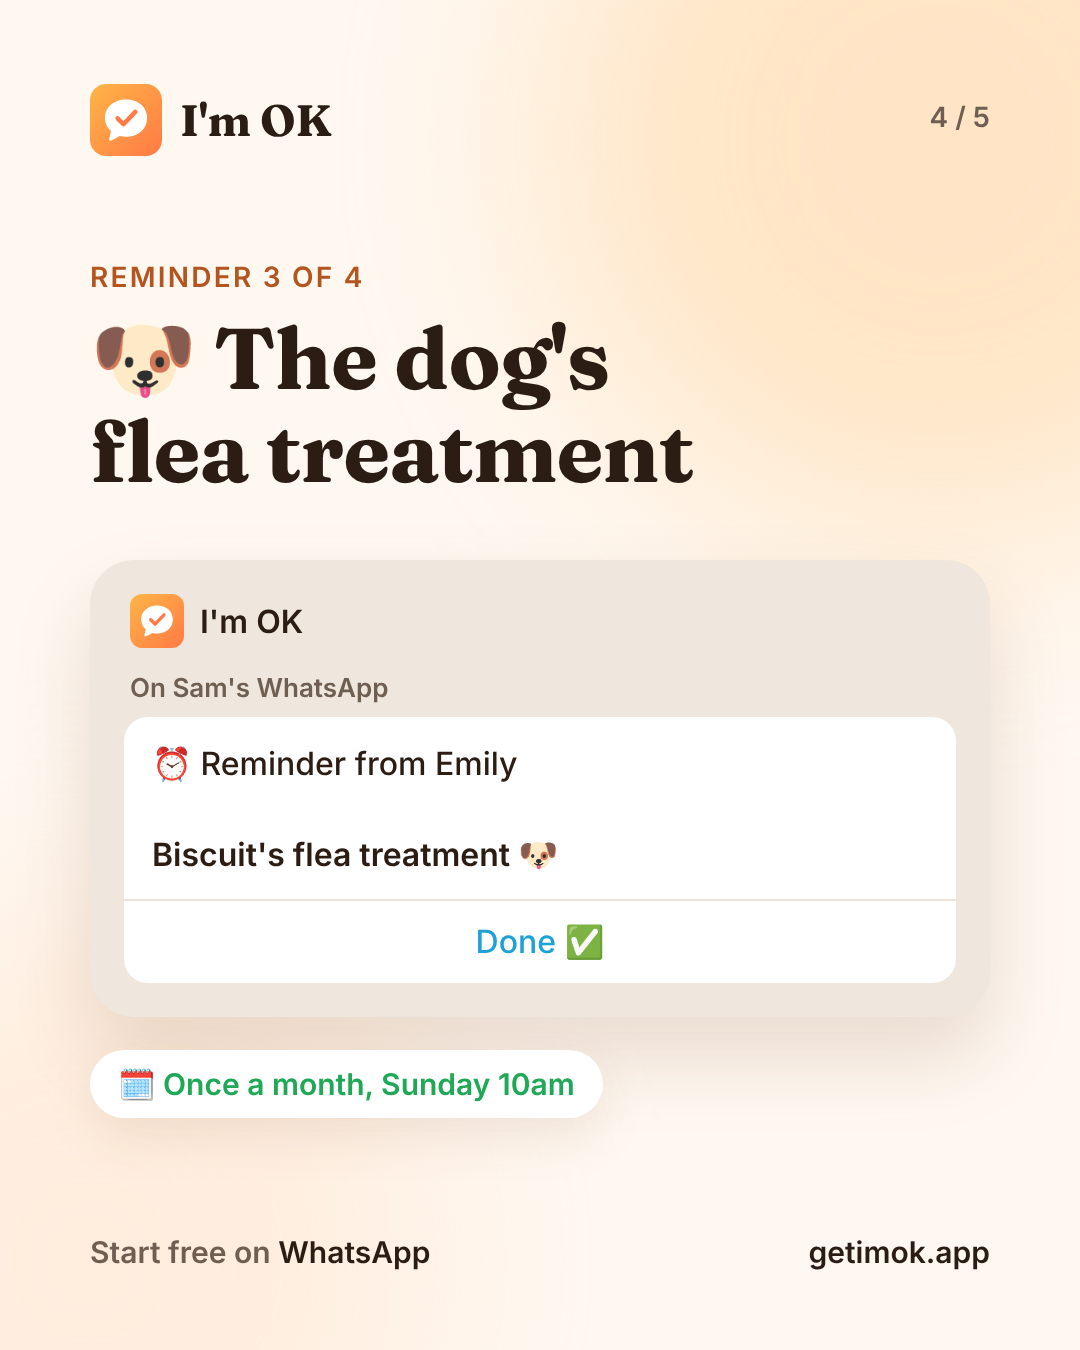
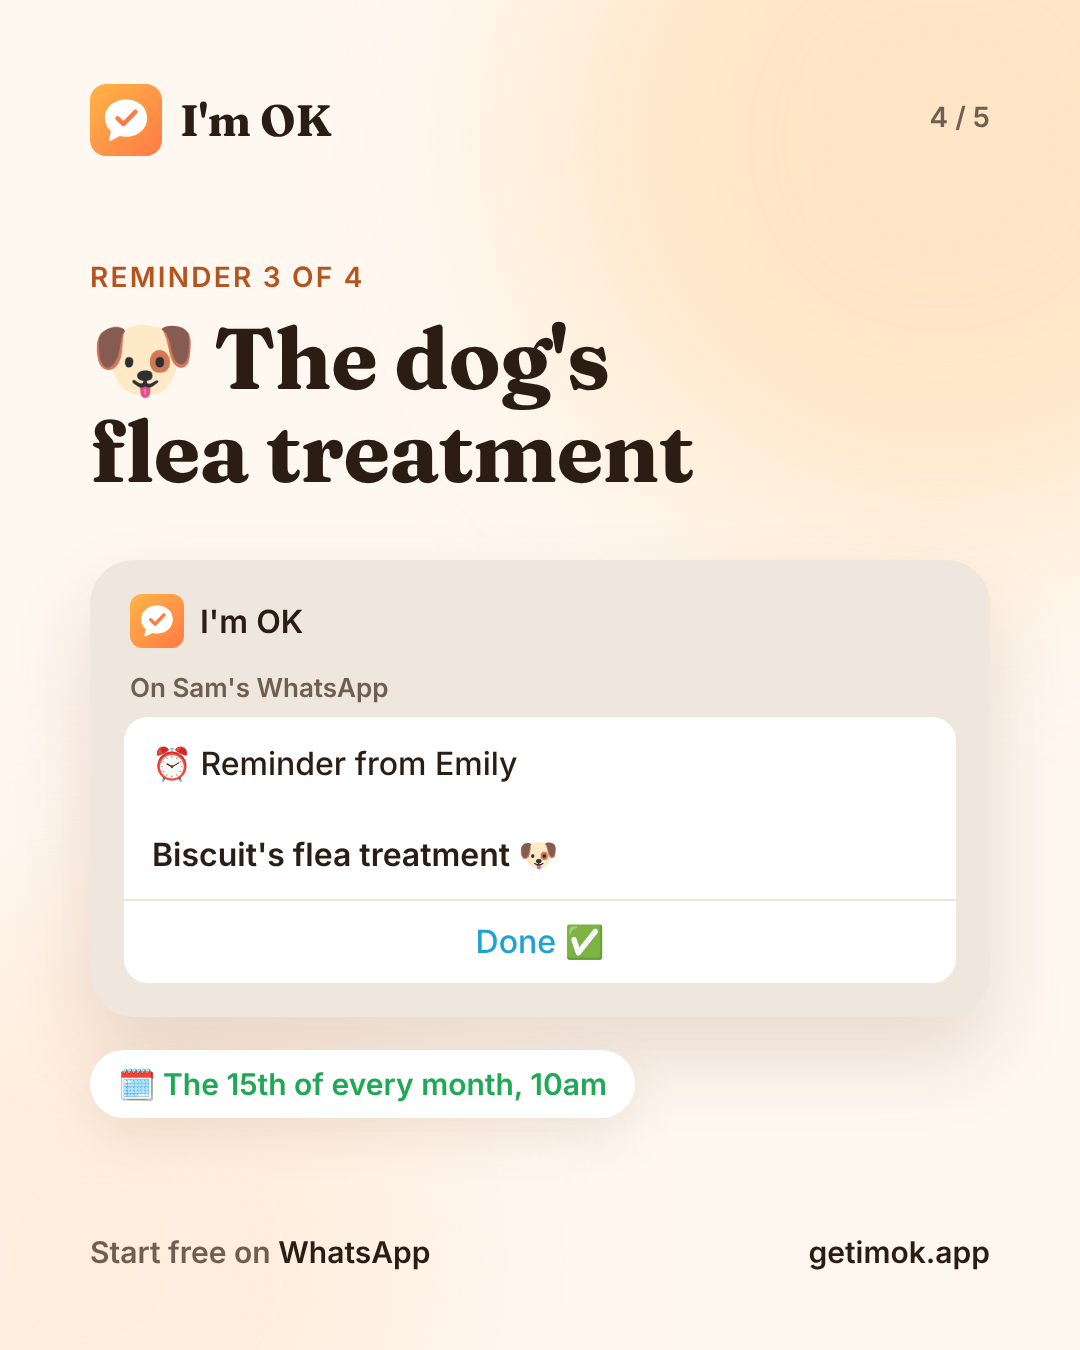
Posts 19 Oct to 1 Nov: fix repeat wording and safety word reply; add 22, 28, 29 and 31 Oct
Claude-Session: https://claude.ai/code/session_019ztv4DbB6iZxgJYrBK5yr6

Changed region(s): [[0.1528, 0.7778, 0.5806, 0.84]]

diff --git a/posts/2026-10-22/spec.js b/posts/2026-10-22/spec.js
@@ -1,0 +1,53 @@
+module.exports = ({ LOGO, foot }) => {
+  // 22, 28, 29 and 31 Oct: chat-screenshot versions of the comic and Halloween slots
+  const css = `<style>
+    h1,.it,.sub,.b,.card,.pill,.lbl{text-wrap:balance}
+    .done{display:inline-flex;align-items:center;gap:12px;font:600 30px I;color:#1FA855;background:#fff;border-radius:999px;padding:16px 28px;box-shadow:0 20px 50px rgba(120,70,30,.10)}
+    .card{background:#fff;border-radius:32px;padding:32px 38px;display:flex;gap:28px;align-items:center;box-shadow:0 20px 50px rgba(120,70,30,.08)}
+    .card .t{font:600 40px I}.card .d{font:500 31px/1.4 I;color:#6F5E52;margin-top:6px}
+    .lbl{font:600 28px I;letter-spacing:.08em;text-transform:uppercase;color:#B4541F;margin-bottom:18px}
+    .num{flex:none;width:76px;height:76px;border-radius:50%;background:linear-gradient(135deg,#FFB547,#FF7A45);color:#fff;display:grid;place-items:center;font:700 38px Fraunces,serif}
+    .pg{position:absolute;right:90px;top:100px;font:600 28px I;color:#6F5E52}
+    .small{font:500 26px I;color:#6F5E52;margin-top:10px}
+    .cap{font:600 26px I;color:#6F5E52;margin:0 0 14px 6px}
+    .pagec{background:#fff;border-radius:36px;padding:30px 34px;box-shadow:0 30px 70px rgba(120,70,30,.14)}
+    .pagec .hd{font:600 26px I;color:#6F5E52;margin-bottom:16px}
+    .row{display:flex;align-items:center;gap:22px;padding:18px 0}.row+.row{border-top:2px solid #F1E3D6}
+    .ok{flex:none;width:58px;height:58px;border-radius:50%;background:#E5F6EC;color:#1FA855;display:grid;place-items:center;font:700 32px I}
+    .row .t{font:600 32px I}.row .d{font:500 26px I;color:#6F5E52;margin-top:4px}
+  </style>`;
+  const page = (h) => css + h + foot;
+  const chat = (top, inner, extra = '') => `<div class="chat" style="position:absolute;left:90px;right:90px;top:${top}px;${extra}"><div class="top">${LOGO} I'm OK</div>${inner}</div>`;
+  const remind = (text, from, btns = ['Done ✅']) => `<div class="b">${from ? `⏰ Reminder from ${from}<br><br>` : ''}<b>${text}</b><div class="acts">${btns.map((b) => `<div>${b}</div>`).join('')}</div></div>`;
+  const heading = (top, html, sub = '') => `<div style="position:absolute;left:90px;right:90px;top:${top}px"><h1>${html}</h1>${sub ? `<p class="sub" style="margin-top:26px">${sub}</p>` : ''}</div>`;
+  const myPage = (top, rows, title = "Emily's page · Today") => `<div class="pagec" style="position:absolute;left:90px;right:90px;top:${top}px"><div class="hd">${title}</div>${rows.map(([t, d]) => `<div class="row"><span class="ok">✓</span><div><div class="t">${t}</div><div class="d">${d}</div></div></div>`).join('')}</div>`;
+  const bubble = (who, text, x, y, w, green = false) => `<div style="position:absolute;left:${x}px;top:${y}px;width:${w}px"><div class="cap">${who}</div><div class="b${green ? ' me' : ''}" style="margin:0;${green ? '' : ''}">${text}</div></div>`;
+  const slide = (n, lbl, title, scary, relief) => page(`<div class="pg">${n} / 7</div>
+    <div style="position:absolute;left:90px;right:90px;top:250px"><div class="lbl">${lbl}</div><h1>${title}</h1><p class="sub" style="margin-top:22px">${scary}</p></div>
+    ${relief}`);
+  return {
+    // Thu 22 Oct 18:00 · Looking after family: Mum vs the 9am tablet
+    '01-iknow': page(`${heading(200, `"I know,<br>I <span class="grad">know.</span>"`, 'Mum, every morning at 9.')}
+    ${chat(470, `<div class="cap">On Mum's WhatsApp</div>${remind('Take your tablets 💊', 'Emily')}<div class="b me">Done ✅</div>`, 'right:170px')}
+    ${myPage(990, [['Mum: Take your tablets', 'Done at 9:04am']])}`),
+    // Wed 28 Oct 18:00 · How it works: Dad and the Done button
+    '02-dadwins': page(`${heading(200, `Dad's new hobby:<br>beating the <span class="grad">reminder.</span>`)}
+    ${chat(470, `<div class="cap">On Dad's WhatsApp · 9:00am</div>${remind('Water the tomatoes 🍅', 'Emily')}<div class="b me">Done ✅ 🏆</div>`, 'right:170px')}
+    ${myPage(990, [['Dad: Water the tomatoes', 'Done at 9:00am, again']], "Emily's page · London")}`),
+    // Thu 29 Oct 18:00 · Seasonal lead-up (funny): the bin lorry
+    '03-binlorry': page(`${heading(200, `The scariest sound this week? <span class="grad">The bin lorry.</span>`)}
+    <div style="position:absolute;left:90px;right:90px;top:560px;display:grid;grid-template-columns:1fr 1fr;gap:30px">
+      <div class="pagec" style="text-align:center;padding:50px 30px"><div style="font:600 30px I;color:#6F5E52">6:02am</div><div style="font-size:140px;margin:20px 0">🚛</div><div style="font:600 34px I">Rumble rumble.<br>Bins still in.</div></div>
+      <div class="chat" style="padding:26px"><div class="top" style="font-size:26px;padding-bottom:16px">${LOGO} I'm OK</div><div class="cap" style="font-size:22px">The night before, 7pm</div><div class="b" style="font-size:28px">⏰ Reminder from Emily<br><br><b>Bins out tonight 🗑</b><div class="acts"><div>Done ✅</div></div></div><div class="b me" style="margin:14px 0 0 60px;font-size:28px">Done ✅</div></div>
+    </div>
+    <p class="sub" style="position:absolute;left:90px;right:90px;top:1130px">One reminder the night before. Sleep through the lorry.</p>`),
+    // Sat 31 Oct 10:00 · Happy Halloween: "What's really scary" carousel
+    '04a-scary-cover': page(`<div class="pg">1 / 7</div>${heading(330, `Forget ghosts.<br>This is what's <span class="grad">really scary.</span> 🎃`, 'Swipe, if you dare 👉')}`),
+    '04b-scary-parents': slide(2, 'Looking after Mum', 'Did Mum take her tablets?', 'The 9am guessing game. 👻', myPage(760, [['Mum: Take your tablets', 'Done at 9:05am']])),
+    '04c-scary-flatmates': slide(3, 'Flatmates', 'Rent day. Nobody says a word.', 'The group chat goes silent. 🦇', myPage(760, [['Sam: Pay your share of the rent', 'Done at 9:12am']], "Emily's page · The 1st")),
+    '04d-scary-teens': slide(4, 'Teenagers', 'Seen at 11:42pm. No reply.', 'Is he home yet? 🕸', myPage(760, [['Sam: Text me when you\'re home', 'Done at 11:47pm']], "Emily's page · Tonight")),
+    '04e-scary-alone': slide(5, 'Living alone', 'A quiet week, and nobody asks.', 'Not this year. 🕯', chat(760, `<div class="b">Evening John 🌙 Your daily I'm OK. All well today?<div class="acts"><div>I'm OK ✅</div></div></div><div class="b me">I'm OK ✅</div>`)),
+    '04f-scary-safety': slide(6, 'Walking home', 'The long way home in the dark.', 'One secret word changes that. 🌙', chat(680, `<div class="b me" style="margin:0 0 0 200px">pumpkin</div><div class="b" style="margin-top:18px">👍<div class="acts"><div>📍 Send location</div></div></div>`) + `<p class="small" style="position:absolute;left:90px;right:90px;top:1110px">Your people are alerted at once. Not an emergency service: for emergencies, call 999.</p>`),
+    '04g-scary-end': page(`<div class="pg">7 / 7</div>${heading(330, `Nothing scary about<br><span class="grad">"Done."</span> ✅`, 'Reminders for the people you love, straight from WhatsApp. They tap Done, you know it\'s done.')}`),
+  };
+};

diff --git a/posts/2026-10-19/spec.js b/posts/2026-10-19/spec.js
@@ -25,8 +25,8 @@ module.exports = ({ LOGO, foot }) => {
   const couples = [
     ['🗑', 'Bin night', 'Bins out tonight 🗑', 'Every Tuesday, 7pm'],
     ['💷', 'Bills and rent', 'Rent day: pay your half 💷', 'The 1st of every month, 9am'],
-    ['🐶', "The dog's flea treatment", "Biscuit's flea treatment 🐶", 'Once a month, Sunday 10am'],
-    ['🍝', 'Date night', 'Date night: you\'re booking 🍝', 'Every other Friday, 6pm'],
+    ['🐶', "The dog's flea treatment", "Biscuit's flea treatment 🐶", 'The 15th of every month, 10am'],
+    ['🍝', 'Date night', 'Date night: you\'re booking 🍝', 'Every Friday, 6pm'],
   ];
   const coupleSlides = Object.fromEntries(couples.map(([e, t, msg, when], i) => [`06${'bcde'[i]}-couples-${i + 1}`, page(`<div class="pg">${i + 2} / 5</div>
     <div style="position:absolute;left:90px;right:90px;top:260px"><div class="lbl">Reminder ${i + 1} of 4</div><h1>${e} ${t}</h1></div>
@@ -87,7 +87,7 @@ module.exports = ({ LOGO, foot }) => {
     // Fri 30 Oct 18:00 · Safety word: Halloween party, calm
     '09-party': page(`${heading(190, `Off to a Halloween <span class="grad">party?</span>`, 'Set a safety word before you go.')}
     <div style="position:absolute;left:90px;right:90px;top:500px;display:grid;grid-template-columns:1fr 1fr;gap:26px">
-      <div><div class="cap">John's phone</div><div class="chat" style="padding:24px"><div class="b me" style="margin:0 0 0 60px">pumpkin</div><div class="b" style="margin-top:14px;font-size:27px">👍 I've alerted Emily. Want to send where you are?<div class="acts" style="margin:16px -28px -24px"><div style="padding:12px 0">📍 Send location</div></div></div></div></div>
+      <div><div class="cap">John's phone</div><div class="chat" style="padding:24px"><div class="b me" style="margin:0 0 0 60px">pumpkin</div><div class="b" style="margin-top:14px;font-size:27px">👍<div class="acts" style="margin:16px -28px -24px"><div style="padding:12px 0">📍 Send location</div></div></div></div></div>
       <div><div class="cap">Emily's phone</div><div class="chat" style="padding:24px"><div class="b" style="font-size:27px">🆘 John sent his safety word and may need help.<br><br>📞 +44 7700 900123<div class="acts" style="margin:16px -28px -24px"><div style="padding:12px 0">I'm on it</div></div></div></div></div>
     </div>
     <p class="sub" style="position:absolute;left:90px;right:90px;top:1060px;font-size:32px">One secret word only you know. Free for everyone. Not an emergency service: for emergencies, call 999.</p>`),
